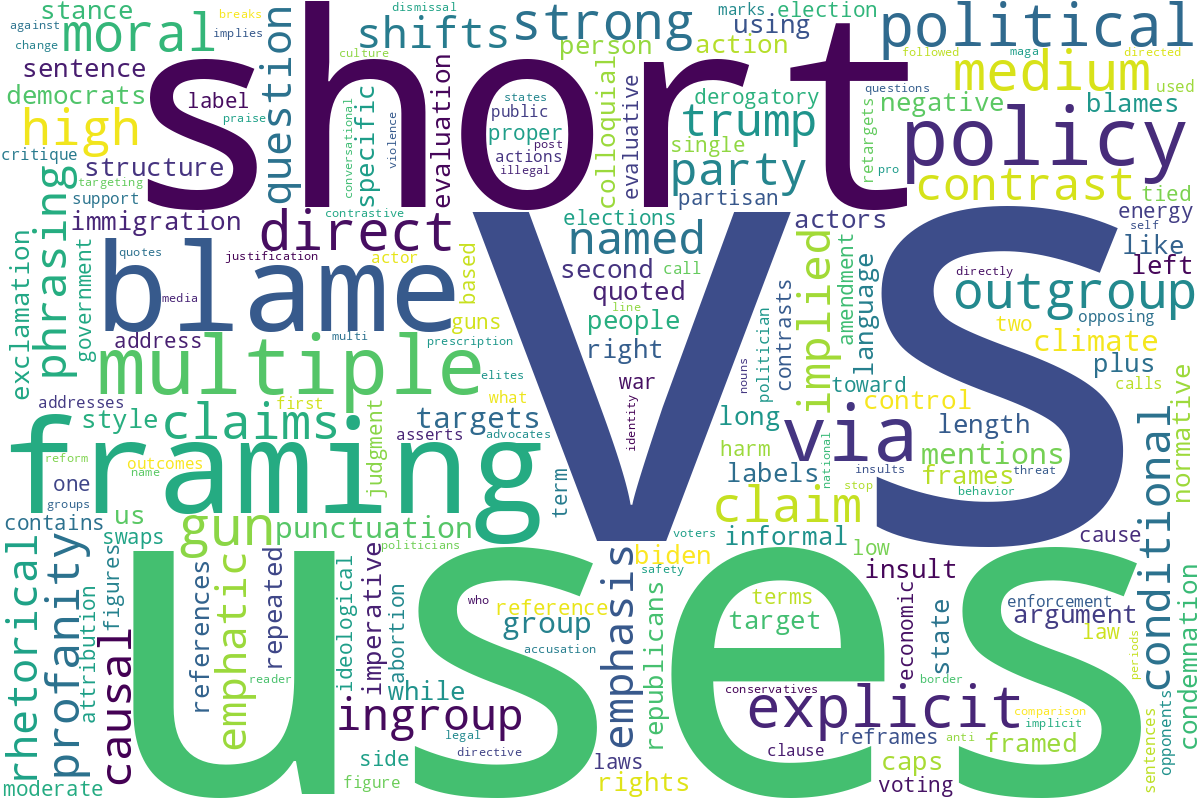
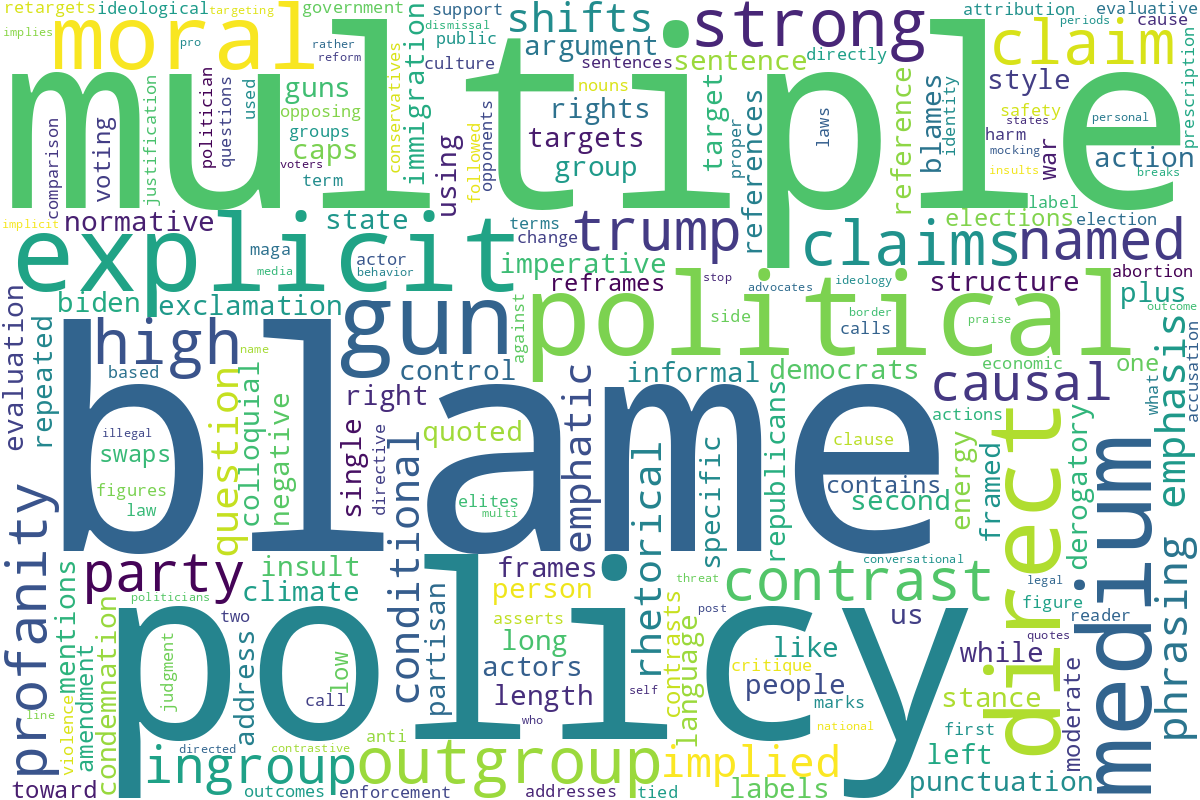
Exclude low-content tokens from Analysis 2 word clouds.
Drop vs, framing, uses, short, and via, then regenerate the four
clouds and top-token tables.

diff --git a/experiments/unanimous_vs_majority_labels_2026_08_08/src/bow_tokens.py b/experiments/unanimous_vs_majority_labels_2026_08_08/src/bow_tokens.py
@@ -115,6 +115,7 @@ _STOPWORDS = frozenset(
     }
 )
 _META_TOKENS = frozenset({"mirror", "original", "mirrors", "mirrored"})
+_EXTRA_EXCLUDED = frozenset({"vs", "framing", "uses", "short", "via"})
 
 
 def tokenize_feature_value(feature_value: str) -> set[str]:
@@ -128,7 +129,7 @@ def tokenize_feature_value(feature_value: str) -> set[str]:
     Returns
     -------
     set[str]
-        Lowercased tokens after stopword and meta-token scrubbing.
+        Lowercased tokens after stopword, meta-token, and extra exclusion scrubbing.
     """
     lowered = str(feature_value).lower()
     raw_tokens = [tok for tok in _NON_LETTER_SPLIT.split(lowered) if tok]
@@ -139,6 +140,8 @@ def tokenize_feature_value(feature_value: str) -> set[str]:
         if token in _STOPWORDS:
             continue
         if token in _META_TOKENS:
+            continue
+        if token in _EXTRA_EXCLUDED:
             continue
         kept.add(token)
     return kept
